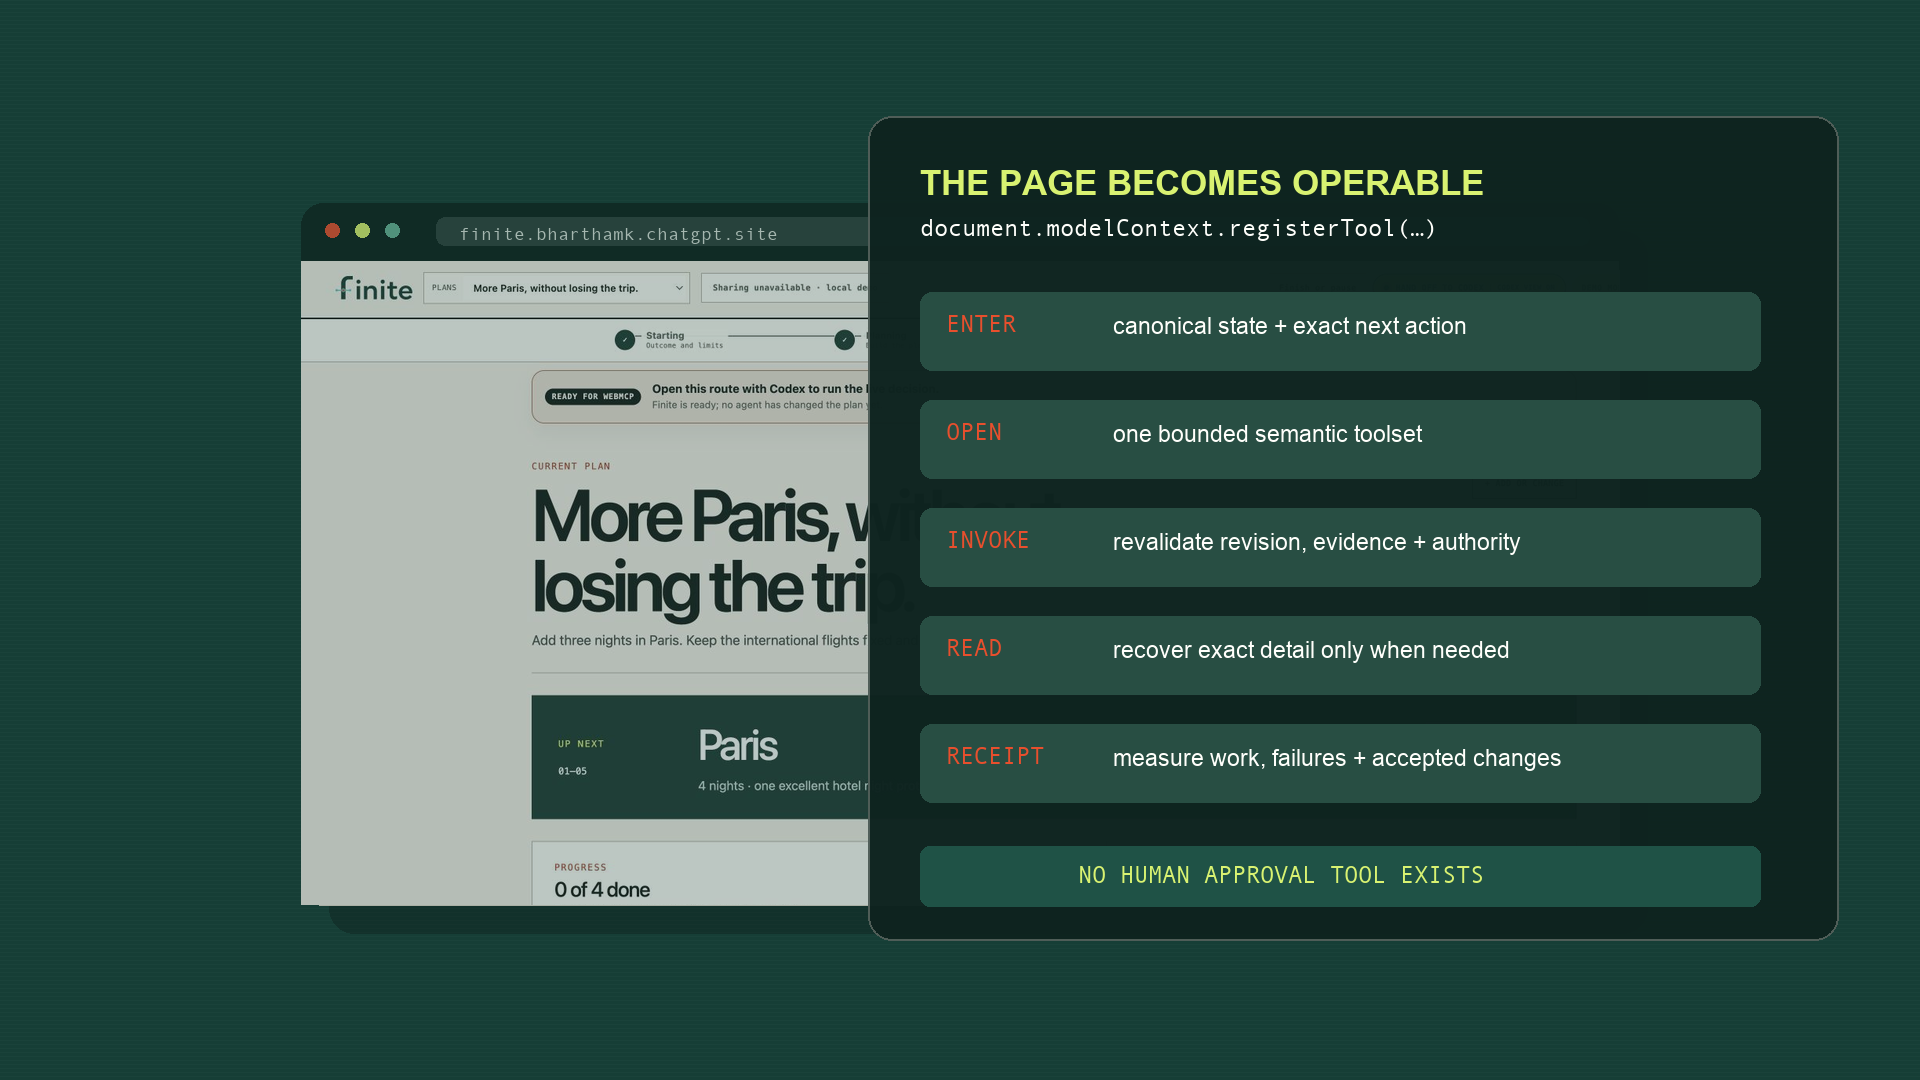
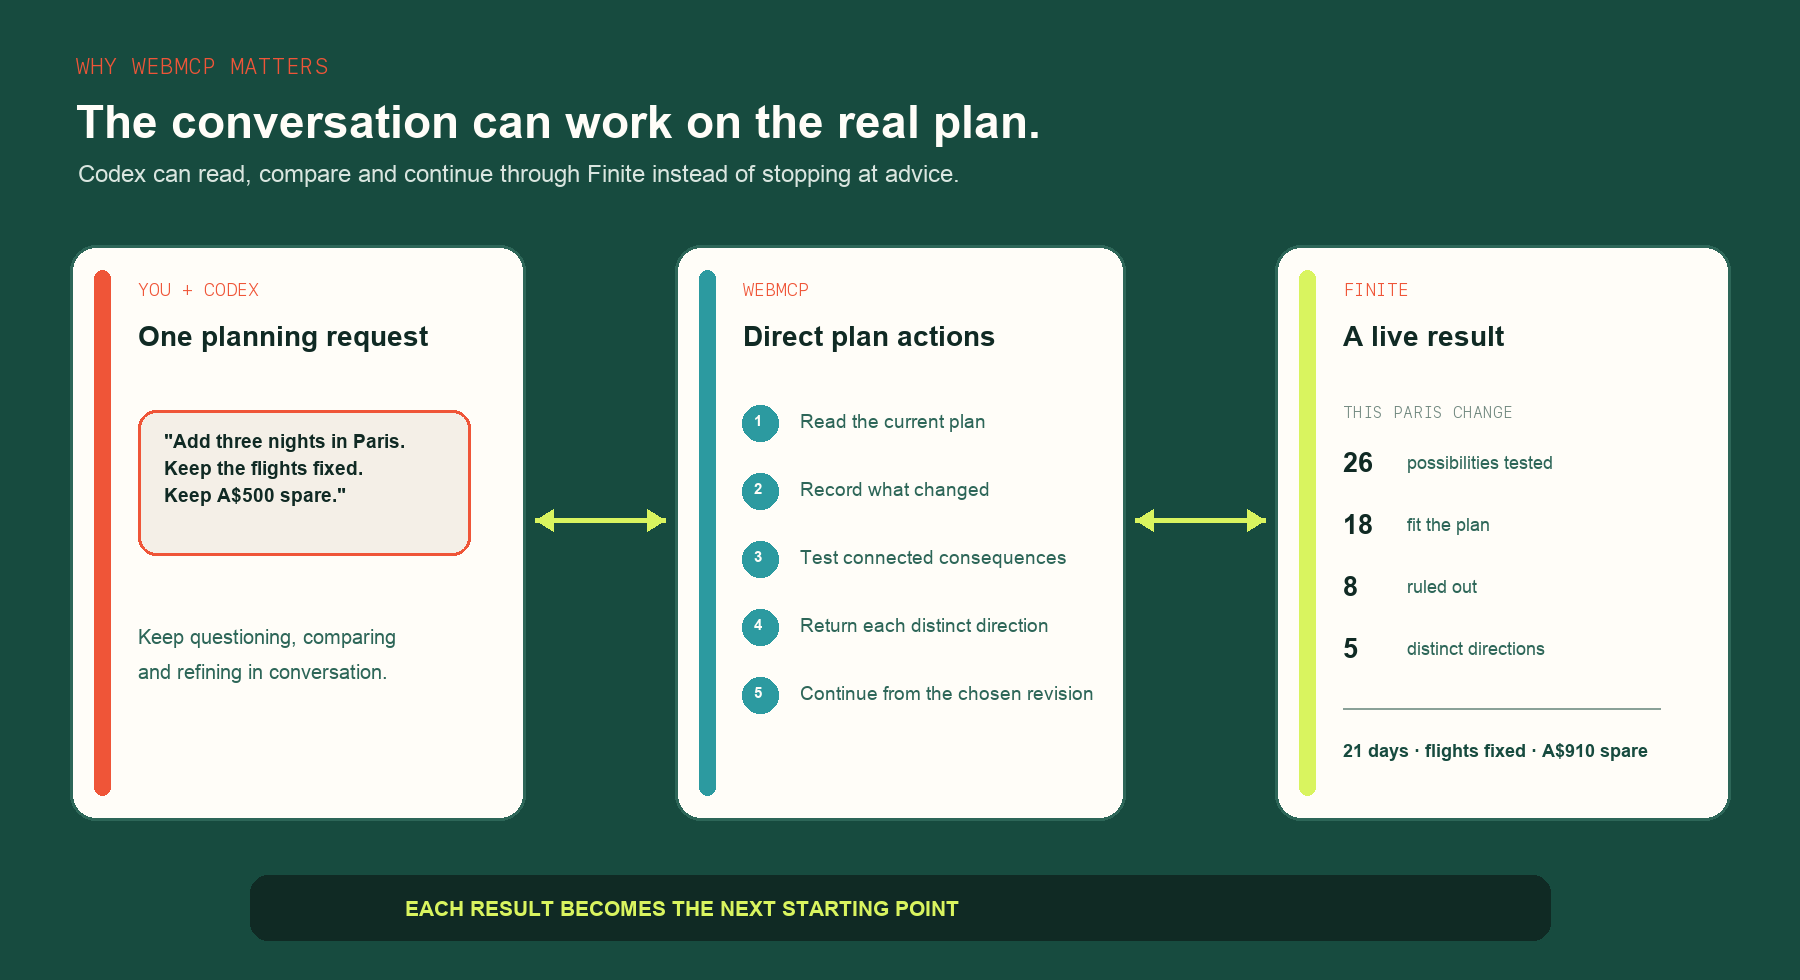
docs: show why Finite needs WebMCP

diff --git a/docs/diagrams/render_diagrams.py b/docs/diagrams/render_diagrams.py
@@ -385,11 +385,68 @@ def adaptive_plan_shapes() -> None:
     image.save(OUT / "02-adaptive-system.png", optimize=True)
 
 
+def webmcp_value() -> None:
+    image = Image.new("RGB", (1800, 980), GREEN)
+    draw = ImageDraw.Draw(image)
+    draw.text((76, 52), "WHY WEBMCP MATTERS", font=font(22, mono=True), fill=CORAL)
+    draw.text((76, 96), "The conversation can work on the real plan.", font=font(46, bold=True), fill=WHITE)
+    draw.text((78, 160), "Codex can read, compare and continue through Finite instead of stopping at advice.", font=font(24), fill="#d9e5df")
+
+    def panel(x0: int, x1: int, label: str, title: str, accent: str) -> None:
+        draw.rounded_rectangle((x0, 245, x1, 820), radius=26, fill=WHITE, outline=GREEN_2, width=3)
+        draw.rounded_rectangle((x0 + 24, 270, x0 + 40, 795), radius=8, fill=accent)
+        draw.text((x0 + 68, 278), label, font=font(18, mono=True), fill=CORAL)
+        draw.text((x0 + 68, 320), title, font=font(28, bold=True), fill=INK)
+
+    panel(70, 525, "YOU + CODEX", "One planning request", CORAL)
+    draw.rounded_rectangle((138, 410, 470, 555), radius=18, fill=PAPER, outline=CORAL, width=3)
+    draw.multiline_text((164, 430), '"Add three nights in Paris.\nKeep the flights fixed.\nKeep A$500 spare."', font=font(19, bold=True), fill=INK, spacing=9)
+    draw.text((138, 625), "Keep questioning, comparing", font=font(20), fill=GREEN_2)
+    draw.text((138, 660), "and refining in conversation.", font=font(20), fill=GREEN_2)
+
+    panel(675, 1125, "WEBMCP", "Direct plan actions", TEAL)
+    steps = [
+        "Read the current plan",
+        "Record what changed",
+        "Test connected consequences",
+        "Return each distinct direction",
+        "Continue from the chosen revision",
+    ]
+    for index, step in enumerate(steps, start=1):
+        y = 405 + (index - 1) * 68
+        draw.ellipse((742, y, 778, y + 36), fill=TEAL)
+        draw.text((754, y + 7), str(index), font=font(15, bold=True), fill=WHITE)
+        draw.text((800, y + 5), step, font=font(19), fill=GREEN_2)
+
+    panel(1275, 1730, "FINITE", "A live result", MINT)
+    draw.text((1343, 402), "THIS PARIS CHANGE", font=font(16, mono=True), fill=MUTED)
+    metrics = [("26", "possibilities tested"), ("18", "fit the plan"), ("8", "ruled out"), ("5", "distinct directions")]
+    for index, (number, label) in enumerate(metrics):
+        y = 447 + index * 62
+        draw.text((1343, y), number, font=font(27, bold=True), fill=INK)
+        draw.text((1407, y + 5), label, font=font(18), fill=GREEN_2)
+    draw.line((1343, 708, 1660, 708), fill=LINE, width=2)
+    draw.text((1343, 740), "21 days · flights fixed · A$910 spare", font=font(18, bold=True), fill=GREEN)
+
+    double_y = 520
+    draw.line((535, double_y, 665, double_y), fill=MINT, width=5)
+    draw.polygon([(535, double_y), (553, double_y - 11), (553, double_y + 11)], fill=MINT)
+    draw.polygon([(665, double_y), (647, double_y - 11), (647, double_y + 11)], fill=MINT)
+    draw.line((1135, double_y, 1265, double_y), fill=MINT, width=5)
+    draw.polygon([(1135, double_y), (1153, double_y - 11), (1153, double_y + 11)], fill=MINT)
+    draw.polygon([(1265, double_y), (1247, double_y - 11), (1247, double_y + 11)], fill=MINT)
+
+    draw.rounded_rectangle((250, 875, 1550, 940), radius=18, fill=INK)
+    draw.text((405, 896), "EACH RESULT BECOMES THE NEXT STARTING POINT", font=font(21, bold=True), fill=MINT)
+    image.save(OUT / "03-webmcp-operating-seam.png", optimize=True)
+
+
 if __name__ == "__main__":
     dark_mode_wordmark()
     github_hero()
     restaurant_model()
     adaptive_plan_shapes()
+    webmcp_value()
     decision_transaction()
     system_architecture()
     webmcp_surface()

diff --git a/README.md b/README.md
@@ -83,33 +83,44 @@ the work actually needs.
 
 ## Why this needs WebMCP
 
-Without WebMCP, Codex can give advice in a chat or try to click through software
-designed for a person with a mouse. You still have to transfer its answer into
-the real plan, and it can miss connected details along the way.
+Without WebMCP, Codex sits outside the plan. It can suggest what to do, but you
+still have to copy the answer into the planner, recheck every dependency and
+keep the conversation aligned with whatever changed next.
 
-With WebMCP, Codex can work on the same live plan you are looking at. Finite
-gives it exact actions to read the current plan, record what changed, compare
-possible revisions and carry the selected direction into the plan. Finite
-handles the exact state and calculations while you and Codex keep shaping what
-comes next.
+With WebMCP, the planning conversation reaches the product itself. Codex can
+read the current plan, tell Finite what changed, ask it to test the connected
+consequences, compare every distinct workable direction and continue from the
+chosen revision. Finite handles the calculations and connected state while you
+and Codex keep working through what comes next.
 
-![Finite WebMCP operating seam showing typed entry, bounded actions, revalidation and receipts](./docs/media/03-webmcp-operating-seam.png)
+![A real Finite WebMCP exchange turning one request into direct plan actions and a live, reusable result](./docs/media/03-webmcp-operating-seam.png)
 
-Finite keeps seven stable page tools discoverable for the document lifetime:
+The result is not just an answer at the end of a chat. It becomes the next
+working state for the conversation and the product. When a direction is ready,
+the person confirms it in Finite and both Codex and Finite continue from that
+revision.
 
-| Stable tool | Responsibility |
+<details>
+<summary><strong>How the WebMCP surface is built</strong></summary>
+
+Finite keeps seven stable page tools available while the actions inside them
+adapt to the current plan:
+
+| Stable tool | What it gives Codex |
 |---|---|
-| `finite_webmcp_status` | Report bootstrap readiness without exposing plan state |
-| `finite_enter_kitchen` | Return canonical identity, accepted state and one grounded next action |
-| `finite_get_capabilities` | Describe the active contract, vocabulary and authority law |
-| `finite_open_toolset` | Open one bounded semantic action manifest |
-| `finite_invoke` | Execute one exact action after revalidating revision, evidence and authority |
-| `finite_read_result` | Recover exact fields from a content-addressed result when needed |
-| `finite_get_effort_receipt` | Report tool effort, failures, boundaries and accepted mutations |
+| `finite_webmcp_status` | Check whether the WebMCP connection is ready |
+| `finite_enter_kitchen` | Read the active plan and receive the next useful planning step |
+| `finite_get_capabilities` | Learn the plan's language and available work |
+| `finite_open_toolset` | Open the relevant set of typed planning actions |
+| `finite_invoke` | Run one selected action against the current revision |
+| `finite_read_result` | Retrieve larger exact results only when they are needed |
+| `finite_get_effort_receipt` | Report the work performed, failures and accepted changes |
 
-The tool surface covers the planning work. When a direction is ready to become
-part of the plan, the person confirms it in the visible product and Codex
-continues from that exact decision.
+The wrappers remain predictable for Codex while their planning actions change
+with the compiled plan. A trip, renovation and event therefore expose different
+working vocabulary through the same durable connection.
+
+</details>
 
 ## How one change becomes a working plan
 
